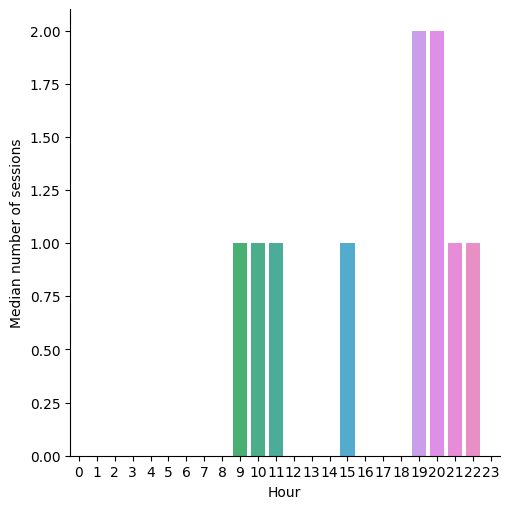
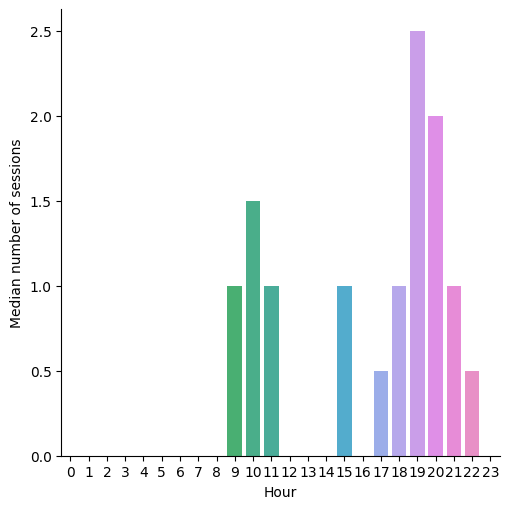
"Stats generated 2021-10-26"

Changed region(s): [[0.0589, 0.0295, 0.943, 1.0]]

diff --git a/all/2021/10/days/25/index.html b/all/2021/10/days/25/index.html
@@ -1,0 +1,29 @@
+<!DOCTYPE html>
+<html>
+  <head>
+    <meta charset="utf-8"/>
+    <title>25 October 2021</title>
+    <link rel="stylesheet" href="../../../../../styles.css"/>
+  </head>
+  <body>
+    <div id="container">
+      <nav>
+        <ul>
+          
+            <li><a href="../../">October 2021</a></li>
+            <li class="separator"></li>
+          
+          
+        </ul>
+      </nav>
+      <main>
+        <h1>25 October 2021</h1>
+        
+          <h2>Number of sessions per hour</h2>
+          <img src="sessions.png" alt="Number of sessions per hour"/>
+        
+        
+      </main>
+    </div>
+  </body>
+</html>

diff --git a/all/2021/index.html b/all/2021/index.html
@@ -143,9 +143,9 @@
                   
                     <td>10.0</td>
                   
-                    <td>209.0</td>
+                    <td>221.0</td>
                   
-                    <td>25.924009783333336</td>
+                    <td>26.096741866666665</td>
                   
                 </tr>
               

diff --git a/all/2021/10/index.html b/all/2021/10/index.html
@@ -130,6 +130,10 @@
               <li><a href="days/24/">24</a></li>
             
           
+            
+              <li><a href="days/25/">25</a></li>
+            
+          
         </ul>
       </nav>
       <main>
